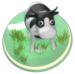
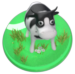
refactor: new asset for cow `AndroidBumper` (#327)
* feat: new assets

* refactor: fixed cow bumper shape to new asset

diff --git a/packages/pinball_components/lib/src/components/android_bumper/android_bumper.dart b/packages/pinball_components/lib/src/components/android_bumper/android_bumper.dart
@@ -78,11 +78,11 @@ class AndroidBumper extends BodyComponent with InitialPosition, ZIndex {
   AndroidBumper.cow({
     Iterable<Component>? children,
   }) : this._(
-          majorRadius: 3.4,
-          minorRadius: 2.9,
+          majorRadius: 3.45,
+          minorRadius: 3.11,
           litAssetPath: Assets.images.android.bumper.cow.lit.keyName,
           dimmedAssetPath: Assets.images.android.bumper.cow.dimmed.keyName,
-          spritePosition: Vector2(0, -0.68),
+          spritePosition: Vector2(0, -0.35),
           bloc: AndroidBumperCubit(),
           children: [
             ...?children,
